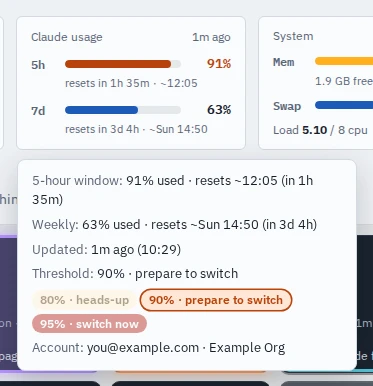
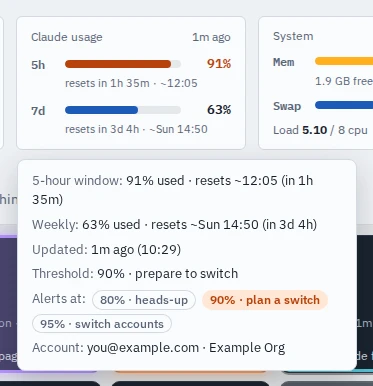
fix(page): a calm threshold legend in the usage popover
The legend reused the alert pills, so a solid red "switch now" showed
even at 39%. It is now labelled "Alerts at:", every step is neutral
(muted text, a thin rule) and only the level reached takes its colour,
with calmer wording: heads-up, plan a switch, switch accounts. The
"Threshold:" line and the alert pills elsewhere are unchanged.

Changed region(s): [[0.0885, 0.7461, 0.8847, 0.8705]]

diff --git a/artifact/board.html b/artifact/board.html
@@ -539,9 +539,13 @@ table.log { border-collapse: collapse; width: 100%; font-size: 13px; min-width: 
 .u-pop p { margin: 0; }
 .u-pop .k { color: var(--muted); }
 .u-pop .u-acct { overflow-wrap: anywhere; }
-.u-pop .lvls { display: flex; flex-wrap: wrap; gap: 4px; }
-.u-pop .lvls .esc { opacity: .45; }
-.u-pop .lvls .esc.on { opacity: 1; box-shadow: 0 0 0 1.5px currentColor; }
+/* the threshold legend is a scale, not an alert: every step neutral, only the level reached in colour */
+.u-pop .lvls { display: flex; flex-wrap: wrap; align-items: center; gap: 4px 6px; }
+.u-pop .lvls .esc { background: none; color: var(--muted); box-shadow: inset 0 0 0 1px var(--rule); font-weight: 500; }
+.u-pop .lvls .esc.on { font-weight: 600; box-shadow: none; }
+.u-pop .lvls .esc.on.warn { background: var(--lamp-soft); color: var(--lamp-ink); }
+.u-pop .lvls .esc.on.high { background: var(--heat-soft); color: var(--heat); }
+.u-pop .lvls .esc.on.urgent { background: var(--deny); color: var(--panel); }
 /* header popovers (every tile, meter and pill): same look; placed by placePop() so they stay on screen */
 .u-pop ul { margin: 0; padding-left: 18px; display: grid; gap: 2px; }
 .u-pop .mono { font-family: var(--f-mono); font-size: 12px; font-weight: 600; }
@@ -1240,7 +1244,10 @@ table.log { border-collapse: collapse; width: 100%; font-size: 13px; min-width: 
   // The usage popover: both windows, when they reset, when reported, the threshold reached and the
   // account the sessions run on (the email only for approvers; board-serve decides, the Artifact
   // mirror never carries it).
-  const THRESHOLDS = [{ at: 80, cls: 'warn', key: 'heads-up' }, { at: 90, cls: 'high', key: 'prepare to switch' }, { at: 95, cls: 'urgent', key: 'switch now' }];
+  // KEY names the threshold reached ("Threshold:" line, as the alerts say it); LEGEND is the calmer
+  // wording of the scale shown under it.
+  const THRESHOLDS = [{ at: 80, cls: 'warn', key: 'heads-up', legend: 'heads-up' }, { at: 90, cls: 'high', key: 'prepare to switch', legend: 'plan a switch' },
+    { at: 95, cls: 'urgent', key: 'switch now', legend: 'switch accounts' }];
   function renderUsagePop() {
     const pop = $('#usage-pop');
     if (!pop || pop.hidden) return;
@@ -1258,7 +1265,8 @@ table.log { border-collapse: collapse; width: 100%; font-size: 13px; min-width: 
     pop.append(h('p', null, h('span', { class: 'k', text: tr('Updated: ') }), upd ? rel(upd) + ' (' + hhmm(upd) + ')' : tr('not reported yet')));
     const hit = THRESHOLDS.filter((x) => worst >= x.at).pop();
     pop.append(h('p', null, h('span', { class: 'k', text: tr('Threshold: ') }), worst < 0 ? tr('unknown') : hit ? hit.at + '% · ' + tr(hit.key) : tr('below 80% · fine')));
-    pop.append(h('div', { class: 'lvls', 'aria-hidden': 'true' }, THRESHOLDS.map((x) => h('span', { class: 'esc ' + x.cls + (hit === x ? ' on' : ''), text: x.at + '% · ' + tr(x.key) }))));
+    pop.append(h('div', { class: 'lvls' }, h('span', { class: 'k', text: tr('Alerts at: ') }),
+      THRESHOLDS.map((x) => h('span', { class: 'esc ' + x.cls + (hit === x ? ' on' : ''), text: x.at + '% · ' + tr(x.legend) }))));
     const a = S.account;
     const acct = a && a.email ? str(a.email) + (a.org ? ' · ' + str(a.org) : '') : tr(a && a.hidden ? 'hidden' : isLocal() || S.demo ? 'not reported' : 'hidden');
     pop.append(h('p', { class: 'u-acct' }, h('span', { class: 'k', text: tr('Account: ') }), acct));
@@ -4944,6 +4952,9 @@ table.log { border-collapse: collapse; width: 100%; font-size: 13px; min-width: 
       "Decisions →": "決策 →",
       "Resources →": "資源 →",
       "Notifications: {state}": "通知：{state}",
+      "Alerts at: ": "提醒門檻：",
+      "plan a switch": "規劃切換",
+      "switch accounts": "切換帳號",
     };
   }
 })();

diff --git a/tests/test_page_usage.py b/tests/test_page_usage.py
@@ -152,6 +152,45 @@ def main():
             check("a second tap on the meter closes it", not pg.evaluate(POP_JS)["open"])
             pg.close()
 
+            print("threshold legend: a calm scale, only the level reached in colour:")
+            LEGEND_JS = """() => { const p = document.getElementById('usage-pop'), l = p.querySelector('.lvls');
+              const bg = (e) => getComputedStyle(e).backgroundColor;
+              const clear = (c) => c === 'transparent' || /rgba\\(.*,\\s*0\\)$/.test(c);
+              const r = p.getBoundingClientRect();
+              return { label: l.querySelector('.k').textContent, chips: [...l.querySelectorAll('.esc')].map((e) => ({ text: e.textContent, filled: !clear(bg(e)), on: e.classList.contains('on') })),
+                text: p.innerText, right: r.right, vw: document.documentElement.clientWidth, sw: document.scrollingElement.scrollWidth }; }"""
+            for scheme, vp in (("light", {"width": 1280, "height": 860}), ("dark", {"width": 390, "height": 844})):
+                for pct, filled in ((39, []), (96, ["95% · switch accounts"])):
+                    pg = new_page(CLAUDE_STUB.replace("pct: 42", "pct: %d" % pct), viewport=vp, color_scheme=scheme, has_touch=vp["width"] < 400)
+                    pg.goto(PAGE)
+                    pg.wait_for_timeout(600)
+                    if vp["width"] < 400:
+                        pg.tap("#usage")
+                    else:
+                        pg.hover("#usage")
+                    pg.wait_for_timeout(100)
+                    lg = pg.evaluate(LEGEND_JS)
+                    tag = "%s, %dpx, %d%%" % (scheme, vp["width"], pct)
+                    check("%s: the legend is labelled, calm wording" % tag, lg["label"] == "Alerts at: "
+                          and [c["text"] for c in lg["chips"]] == ["80% · heads-up", "90% · plan a switch", "95% · switch accounts"], lg)
+                    check("%s: filled chips %s" % (tag, filled or "none"), [c["text"] for c in lg["chips"] if c["filled"]] == filled, lg["chips"])
+                    check("%s: the Threshold line is unchanged" % tag,
+                          ("Threshold: 95% · switch now" if pct == 96 else "Threshold: below 80% · fine") in lg["text"], lg["text"])
+                    check("%s: inside the screen" % tag, lg["right"] <= lg["vw"] and lg["sw"] <= lg["vw"], lg)
+                    pg.close()
+            pg = new_page(CLAUDE_STUB.replace("pct: 42", "pct: 39"), viewport={"width": 390, "height": 844}, has_touch=True)
+            pg.goto(PAGE)
+            pg.wait_for_timeout(600)
+            pg.tap("#acct-btn")
+            pg.tap('label:has(input[name="sb-lang"][value="zh-TW"])')
+            pg.keyboard.press("Escape")
+            pg.tap("#usage")
+            pg.wait_for_timeout(100)
+            lg = pg.evaluate(LEGEND_JS)
+            check("zh-TW legend: 提醒門檻：80% · 提醒 / 90% · 規劃切換 / 95% · 切換帳號", lg["label"] == "提醒門檻："
+                  and [c["text"] for c in lg["chips"]] == ["80% · 提醒", "90% · 規劃切換", "95% · 切換帳號"], lg)
+            pg.close()
+
             print("claude adapter: no email on the Artifact page:")
             pg = new_page(CLAUDE_STUB)
             pg.goto(PAGE)
